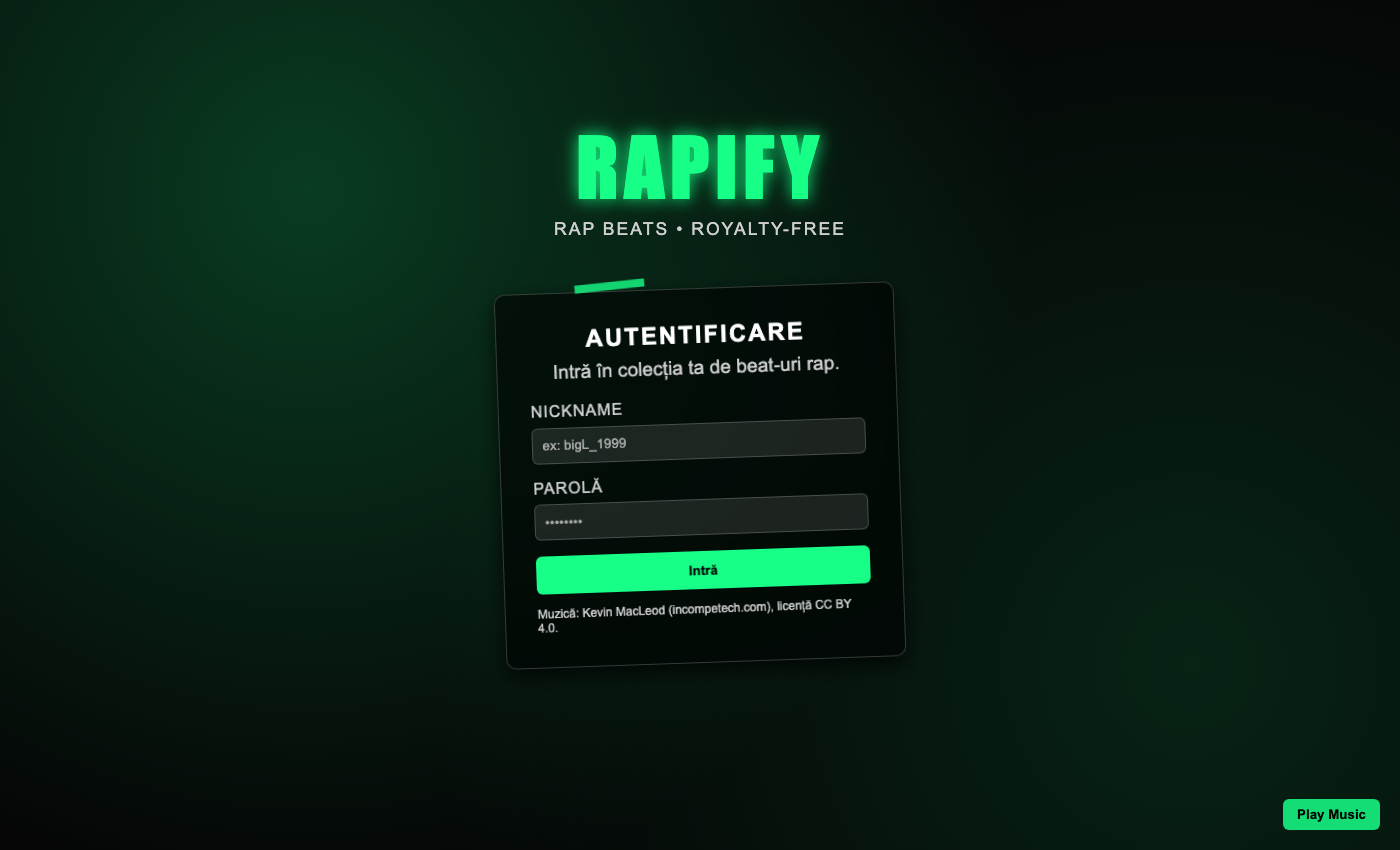
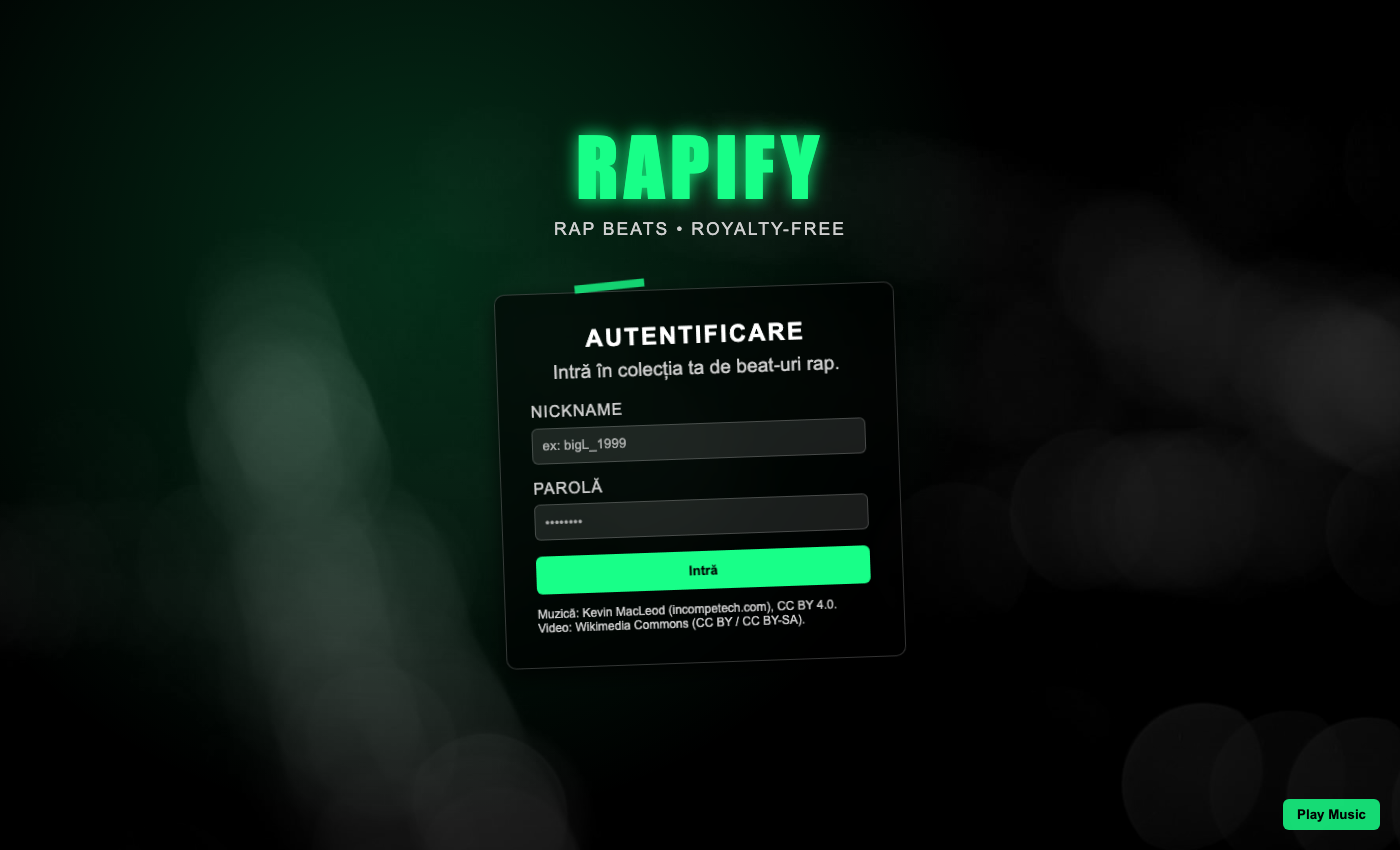
Add CC-licensed ambient city footage per playlist
Videos from Wikimedia Commons (CC BY / CC BY-SA), credited in the README.

diff --git a/index.html b/index.html
@@ -34,9 +34,12 @@
 
 <main class="page-wrapper">
 
-    <!-- stanga: vizualizator si descrierea piesei -->
+    <!-- stanga: video + vizualizator si descrierea piesei -->
     <section class="left-panel">
         <div class="left-video-wrapper">
+            <video id="track-video" autoplay muted loop playsinline>
+                <source id="video-source" src="" type="video/webm">
+            </video>
             <canvas id="visualizer"></canvas>
         </div>
 
@@ -62,6 +65,7 @@
                 <!-- Griphop -->
                 <li class="track-item"
                     data-src="audio/griphop.mp3"
+                    data-video="video/brooklyn.webm"
                     data-title="Griphop"
                     data-artist="Kevin MacLeod"
                     data-info-title="Griphop"
@@ -76,6 +80,7 @@
                 <!-- Got Funk -->
                 <li class="track-item"
                     data-src="audio/got-funk.mp3"
+                    data-video="video/brooklyn.webm"
                     data-title="Got Funk"
                     data-artist="Kevin MacLeod"
                     data-info-title="Got Funk"
@@ -90,6 +95,7 @@
                 <!-- Vicious -->
                 <li class="track-item"
                     data-src="audio/vicious.mp3"
+                    data-video="video/brooklyn.webm"
                     data-title="Vicious"
                     data-artist="Kevin MacLeod"
                     data-info-title="Vicious"
@@ -104,6 +110,7 @@
                 <!-- MTA -->
                 <li class="track-item"
                     data-src="audio/mta.mp3"
+                    data-video="video/city-night.webm"
                     data-title="MTA"
                     data-artist="Kevin MacLeod"
                     data-info-title="MTA"
@@ -118,6 +125,7 @@
                 <!-- Lewis and Dekalb -->
                 <li class="track-item"
                     data-src="audio/lewis-and-dekalb.mp3"
+                    data-video="video/city-night.webm"
                     data-title="Lewis and Dekalb"
                     data-artist="Kevin MacLeod"
                     data-info-title="Lewis and Dekalb"
@@ -132,6 +140,7 @@
                 <!-- Basic Implosion -->
                 <li class="track-item"
                     data-src="audio/basic-implosion.mp3"
+                    data-video="video/city-night.webm"
                     data-title="Basic Implosion"
                     data-artist="Kevin MacLeod"
                     data-info-title="Basic Implosion"
@@ -146,6 +155,7 @@
                 <!-- Chillin Hard -->
                 <li class="track-item"
                     data-src="audio/chillin-hard.mp3"
+                    data-video="video/subway.webm"
                     data-title="Chillin Hard"
                     data-artist="Kevin MacLeod"
                     data-info-title="Chillin Hard"
@@ -160,6 +170,7 @@
                 <!-- Slow Jam -->
                 <li class="track-item"
                     data-src="audio/slow-jam.mp3"
+                    data-video="video/subway.webm"
                     data-title="Slow Jam"
                     data-artist="Kevin MacLeod"
                     data-info-title="Slow Jam"
@@ -174,6 +185,7 @@
                 <!-- Galactic Rap -->
                 <li class="track-item"
                     data-src="audio/galactic-rap.mp3"
+                    data-video="video/subway.webm"
                     data-title="Galactic Rap"
                     data-artist="Kevin MacLeod"
                     data-info-title="Galactic Rap"

diff --git a/Dark.html b/Dark.html
@@ -34,9 +34,12 @@
 
 <main class="page-wrapper">
 
-    <!-- stanga: vizualizator si descrierea piesei -->
+    <!-- stanga: video + vizualizator si descrierea piesei -->
     <section class="left-panel">
         <div class="left-video-wrapper">
+            <video id="track-video" autoplay muted loop playsinline>
+                <source id="video-source" src="" type="video/webm">
+            </video>
             <canvas id="visualizer"></canvas>
         </div>
 
@@ -62,6 +65,7 @@
                 <!-- MTA -->
                 <li class="track-item"
                     data-src="audio/mta.mp3"
+                    data-video="video/city-night.webm"
                     data-title="MTA"
                     data-artist="Kevin MacLeod"
                     data-info-title="MTA"
@@ -76,6 +80,7 @@
                 <!-- Lewis and Dekalb -->
                 <li class="track-item"
                     data-src="audio/lewis-and-dekalb.mp3"
+                    data-video="video/city-night.webm"
                     data-title="Lewis and Dekalb"
                     data-artist="Kevin MacLeod"
                     data-info-title="Lewis and Dekalb"
@@ -90,6 +95,7 @@
                 <!-- Basic Implosion -->
                 <li class="track-item"
                     data-src="audio/basic-implosion.mp3"
+                    data-video="video/city-night.webm"
                     data-title="Basic Implosion"
                     data-artist="Kevin MacLeod"
                     data-info-title="Basic Implosion"

diff --git a/Chill.html b/Chill.html
@@ -34,9 +34,12 @@
 
 <main class="page-wrapper">
 
-    <!-- stanga: vizualizator si descrierea piesei -->
+    <!-- stanga: video + vizualizator si descrierea piesei -->
     <section class="left-panel">
         <div class="left-video-wrapper">
+            <video id="track-video" autoplay muted loop playsinline>
+                <source id="video-source" src="" type="video/webm">
+            </video>
             <canvas id="visualizer"></canvas>
         </div>
 
@@ -62,6 +65,7 @@
                 <!-- Chillin Hard -->
                 <li class="track-item"
                     data-src="audio/chillin-hard.mp3"
+                    data-video="video/subway.webm"
                     data-title="Chillin Hard"
                     data-artist="Kevin MacLeod"
                     data-info-title="Chillin Hard"
@@ -76,6 +80,7 @@
                 <!-- Slow Jam -->
                 <li class="track-item"
                     data-src="audio/slow-jam.mp3"
+                    data-video="video/subway.webm"
                     data-title="Slow Jam"
                     data-artist="Kevin MacLeod"
                     data-info-title="Slow Jam"
@@ -90,6 +95,7 @@
                 <!-- Galactic Rap -->
                 <li class="track-item"
                     data-src="audio/galactic-rap.mp3"
+                    data-video="video/subway.webm"
                     data-title="Galactic Rap"
                     data-artist="Kevin MacLeod"
                     data-info-title="Galactic Rap"

diff --git a/BoomBap.html b/BoomBap.html
@@ -34,9 +34,12 @@
 
 <main class="page-wrapper">
 
-    <!-- stanga: vizualizator si descrierea piesei -->
+    <!-- stanga: video + vizualizator si descrierea piesei -->
     <section class="left-panel">
         <div class="left-video-wrapper">
+            <video id="track-video" autoplay muted loop playsinline>
+                <source id="video-source" src="" type="video/webm">
+            </video>
             <canvas id="visualizer"></canvas>
         </div>
 
@@ -62,6 +65,7 @@
                 <!-- Griphop -->
                 <li class="track-item"
                     data-src="audio/griphop.mp3"
+                    data-video="video/brooklyn.webm"
                     data-title="Griphop"
                     data-artist="Kevin MacLeod"
                     data-info-title="Griphop"
@@ -76,6 +80,7 @@
                 <!-- Got Funk -->
                 <li class="track-item"
                     data-src="audio/got-funk.mp3"
+                    data-video="video/brooklyn.webm"
                     data-title="Got Funk"
                     data-artist="Kevin MacLeod"
                     data-info-title="Got Funk"
@@ -90,6 +95,7 @@
                 <!-- Vicious -->
                 <li class="track-item"
                     data-src="audio/vicious.mp3"
+                    data-video="video/brooklyn.webm"
                     data-title="Vicious"
                     data-artist="Kevin MacLeod"
                     data-info-title="Vicious"

diff --git a/app.js b/app.js
@@ -8,6 +8,10 @@ document.addEventListener("DOMContentLoaded", () => {
     // Info Panels (Text)
     const titleEl = document.getElementById("current-title");
     const artistEl = document.getElementById("current-artist");
+
+    // video ambiental (unul per playlist), ruleaza continuu in spatele vizualizatorului
+    const video = document.getElementById("track-video");
+    const videoSource = document.getElementById("video-source");
     
 
 
@@ -149,11 +153,19 @@ document.addEventListener("DOMContentLoaded", () => {
     function selectTrack(target, autoplay) {
 
         const src = target.getAttribute("data-src");
+        const videoSrc = target.getAttribute("data-video");
         const title = target.getAttribute("data-title");
         const artist = target.getAttribute("data-artist");
 
         source.src = src;
         audio.load();
+
+        // schimbam videoul doar daca piesa e din alt playlist
+        if (videoSrc && videoSource.getAttribute("src") !== videoSrc) {
+            videoSource.setAttribute("src", videoSrc);
+            video.load();
+            video.play().catch(() => {});
+        }
 
         if (autoplay) {
             if (!isVisualizerInit) {

diff --git a/auth.css b/auth.css
@@ -36,21 +36,24 @@ body {
     Pentru Videoul de pe fundal si overlay
 */
 
-/* fundal animat cu gradient (in locul videoului) */
-.overlay {
+#bg-video {
     position: fixed;
-    inset: -20%;
-    background:
-        radial-gradient(circle at 30% 30%, rgba(24, 255, 136, 0.22), transparent 45%),
-        radial-gradient(circle at 75% 70%, rgba(24, 255, 136, 0.12), transparent 45%),
-        var(--bg-dark);
-    z-index: -1;
-    animation: drift 18s ease-in-out infinite alternate;
+    inset: 0;
+    width: 100%;
+    height: 100%;
+    object-fit: cover;
+    z-index: -2;
+    filter: grayscale(1) contrast(1.2) brightness(0.6);
 }
 
-@keyframes drift {
-    from { transform: translate(0, 0) rotate(0deg); }
-    to   { transform: translate(4%, -3%) rotate(6deg); }
+/* strat întunecat peste video, cu o tentă de verde */
+.overlay {
+    position: fixed;
+    inset: 0;
+    background:
+        radial-gradient(circle at 30% 30%, rgba(24, 255, 136, 0.18), transparent 50%),
+        linear-gradient(to bottom, rgba(0, 0, 0, 0.25), rgba(0, 0, 0, 0.75));
+    z-index: -1;
 }
 
 /* 

diff --git a/auth.html b/auth.html
@@ -7,6 +7,11 @@
     <link rel="stylesheet" href="auth.css">
 </head>
 <body>
+    <!-- Video de fundal -->
+    <video id="bg-video" autoplay muted loop playsinline>
+        <source src="video/city-night.webm" type="video/webm">
+    </video>
+
     <!-- Audio de fundal (doar sunet, ascuns vizual) -->
     <audio id="bg-audio" loop>
         <source src="audio/chillin-hard.mp3" type="audio/mpeg">
@@ -42,7 +47,7 @@
             <button type="submit">Intră</button>
 
             <p class="login-note">
-                Muzică: Kevin MacLeod (incompetech.com), licență CC BY 4.0.
+                Muzică: Kevin MacLeod (incompetech.com), CC BY 4.0. Video: Wikimedia Commons (CC BY / CC BY-SA).
             </p>
         </form>
   </div>

diff --git a/index.css b/index.css
@@ -170,6 +170,15 @@ body {
     border-bottom: 1px solid var(--border-soft);
 }
 
+#track-video {
+    position: absolute;
+    inset: 0;
+    width: 100%;
+    height: 100%;
+    object-fit: cover;
+    filter: grayscale(1) contrast(1.2) brightness(0.45);
+}
+
 /* info dedesubt */
 .info-panel {
     flex: 1;

diff --git a/README.md b/README.md
@@ -9,6 +9,7 @@ A Spotify-inspired web player for rap beats, built with **vanilla HTML, CSS and 
 - **Audio player** with play/pause (button or <kbd>Space</kbd>), seekable timeline and per-track info panel
 - **Real-time audio visualizer** built with the Web Audio API (`AnalyserNode`, FFT) and HTML5 Canvas
 - **Playlists by mood** (Boom Bap, Dark, Chill) with a dropdown navigation menu
+- **Ambient black-and-white city footage** per playlist, playing behind the visualizer
 - **Login page** with regex-based username validation; the session and **favorites** are persisted in `localStorage`
 - Responsive layout with CSS Grid and Flexbox
 
@@ -30,7 +31,7 @@ python3 -m http.server 8000
 | `auth.html`, `auth.css`, `auth.js` | Login page and validation |
 | `index.html` | Home page with all tracks |
 | `BoomBap.html`, `Dark.html`, `Chill.html` | Playlists |
-| `audio/` | Music files |
+| `audio/`, `video/` | Media files |
 | `index.css` | Shared styles for the player pages |
 | `app.js` | Player logic, visualizer, favorites |
 
@@ -38,3 +39,13 @@ python3 -m http.server 8000
 
 All tracks by **Kevin MacLeod** ([incompetech.com](https://incompetech.com)), licensed under [Creative Commons: By Attribution 4.0](https://creativecommons.org/licenses/by/4.0/):
 Griphop, Got Funk, Vicious, MTA, Lewis and Dekalb, Basic Implosion, Chillin Hard, Slow Jam, Galactic Rap.
+
+## Video credits
+
+From Wikimedia Commons, shown in grayscale:
+
+| File | Source | Author | License |
+| --- | --- | --- | --- |
+| `video/brooklyn.webm` | [Bensonhurst 18th Avenue & 85th Street Brooklyn NY](https://commons.wikimedia.org/wiki/File:Bensonhurst_18th_Avenue_%26_85th_Street_Brooklyn_NY.webm) | GK tramrunner RU | [CC BY-SA 4.0](https://creativecommons.org/licenses/by-sa/4.0) |
+| `video/subway.webm` | [NYC Subway train of R68 cars](https://commons.wikimedia.org/wiki/File:NYC_Subway_train_of_R68_cars.webm) | GK tramrunner RU | [CC BY-SA 4.0](https://creativecommons.org/licenses/by-sa/4.0) |
+| `video/city-night.webm` | [City at night](https://commons.wikimedia.org/wiki/File:City_at_night.webm) | Editor (YouTube) | [CC BY 3.0](https://creativecommons.org/licenses/by/3.0) |
